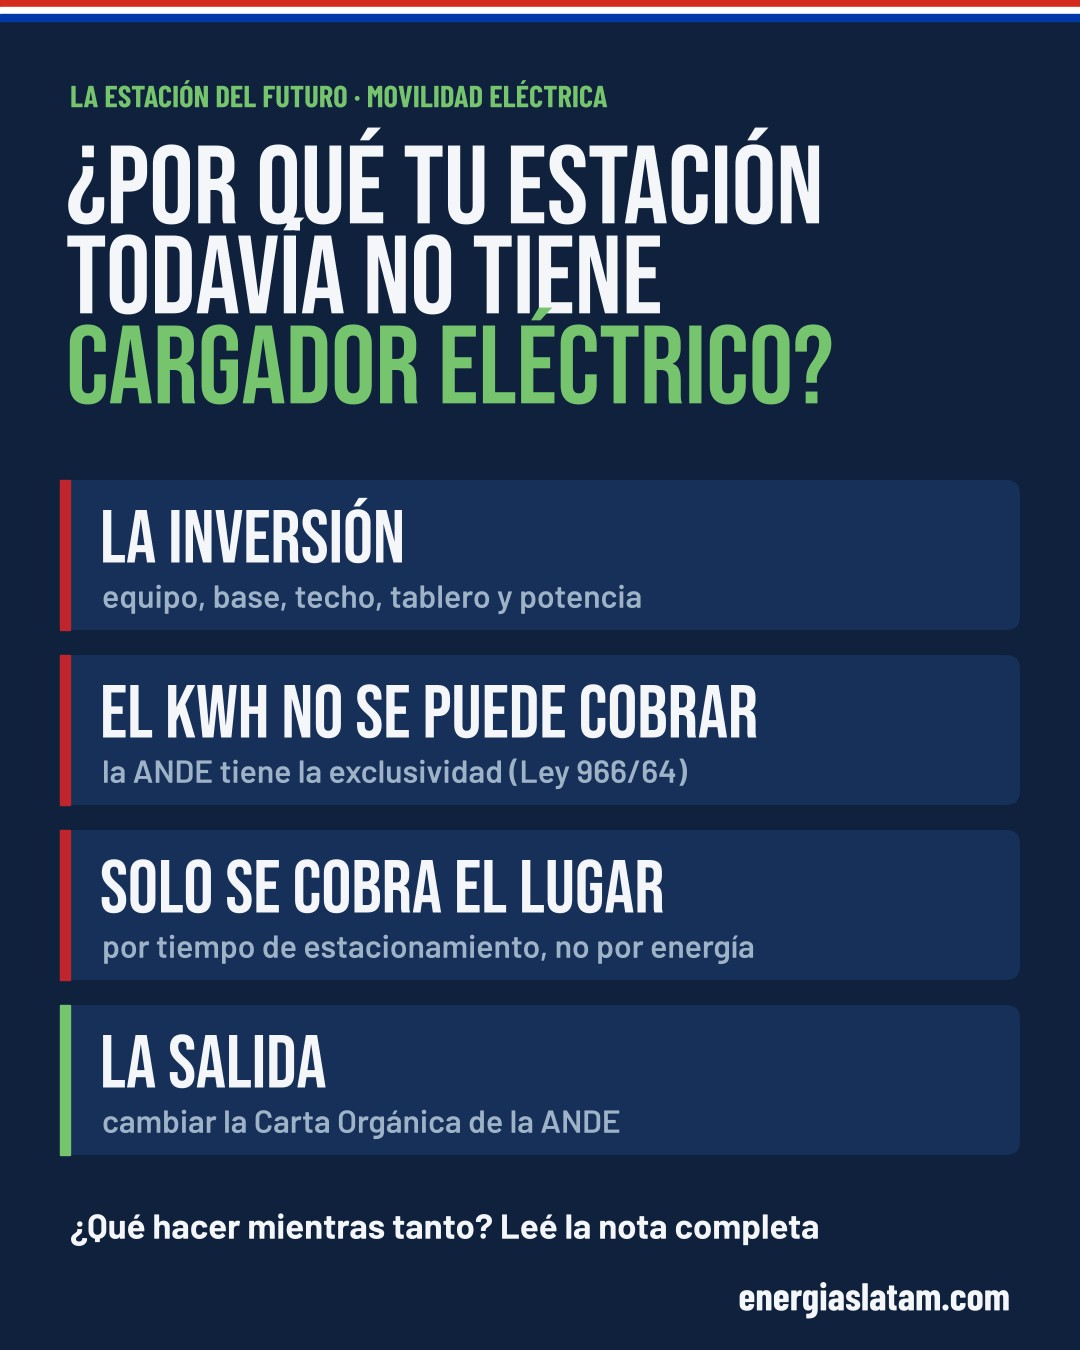
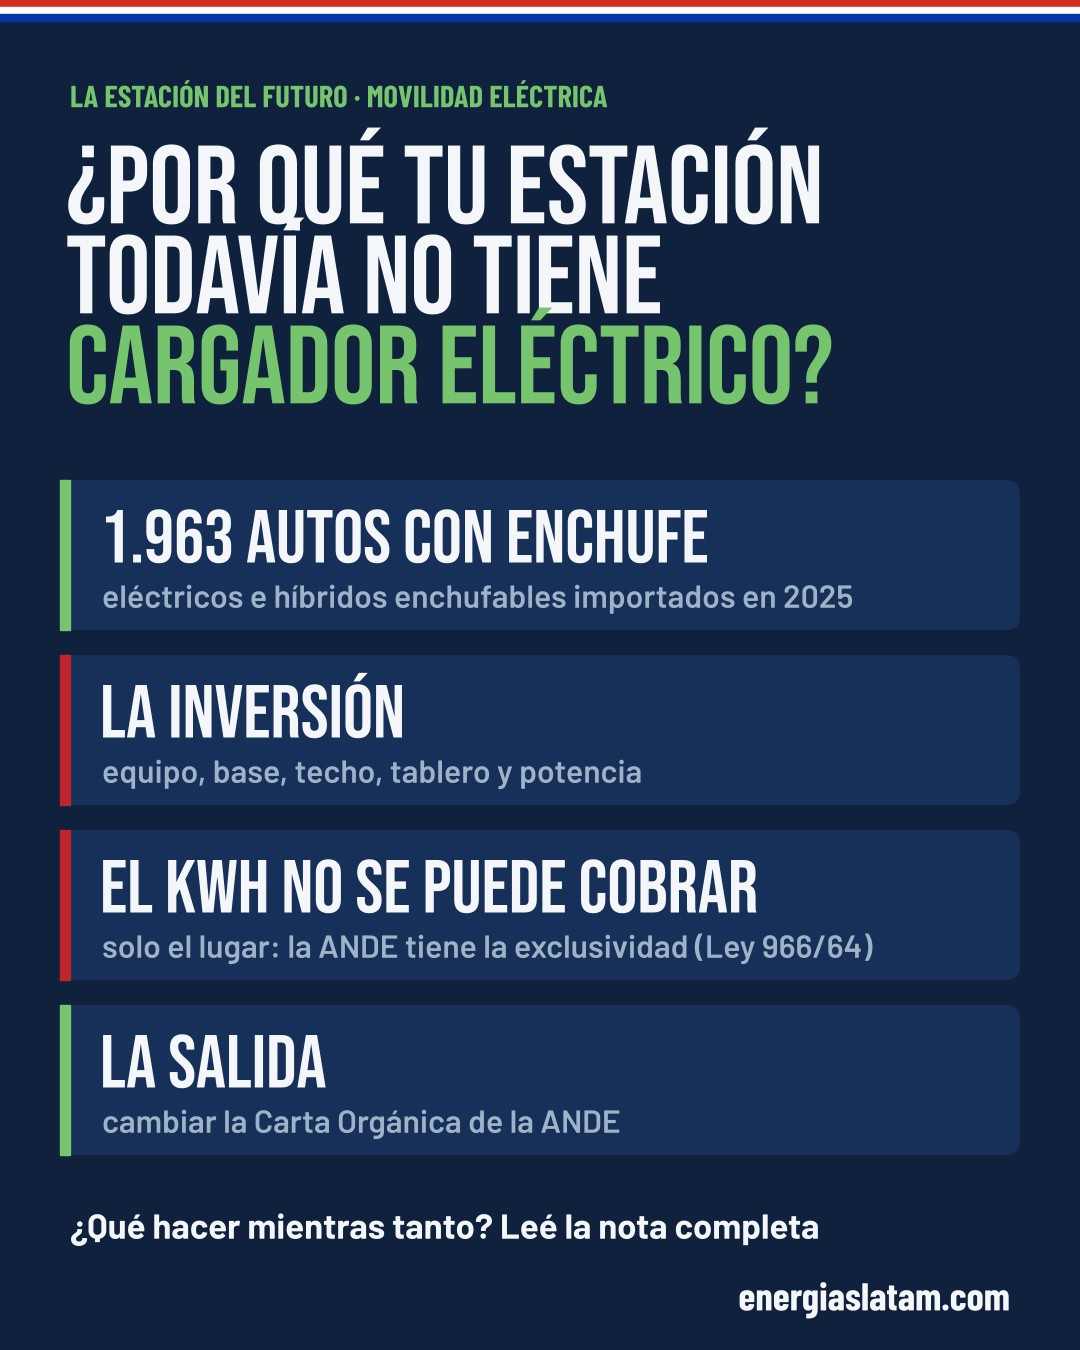
Borrador cargadores: importaciones 2025 y preguntas clave
Claude-Session: https://claude.ai/code/session_01HHGRFrapr8AXyd2C4Baz1m

Changed region(s): [[0.0306, 0.3422, 0.7944, 0.4667], [0.0917, 0.6222, 0.825, 0.7156], [0.0917, 0.4978, 0.7028, 0.5911]]

diff --git a/notas/2026-10-29-cargadores-electricos-estaciones.html b/notas/2026-10-29-cargadores-electricos-estaciones.html
@@ -1,14 +1,27 @@
 <figure><img src="img/2026-10-29-cargadores-electricos-estaciones-1.jpg" alt="Las dos barreras para instalar cargadores eléctricos en una estación de servicio: la inversión inicial y la imposibilidad de cobrar por kWh"><figcaption>Las dos barreras que hoy frenan los cargadores en las estaciones.</figcaption></figure>
-<p>Cada vez se ven más autos eléctricos e híbridos enchufables en las calles de Paraguay, y en las estaciones aparece una pregunta que antes no existía: ¿por qué acá no hay un cargador? La respuesta no tiene que ver con falta de interés de los operadores. Tiene que ver con dos números que todavía no cierran: lo que cuesta instalarlo y lo que se puede cobrar por usarlo.</p>
+<p>Los autos eléctricos ya no son una promesa: los importadores los están trayendo, junto con los híbridos enchufables, y cada vez se ven más en las calles de Paraguay. En las estaciones aparece una pregunta que antes no existía: ¿por qué acá no hay un cargador? La respuesta no tiene que ver con falta de interés de los operadores. Tiene que ver con dos números que todavía no cierran, lo que cuesta instalarlo y lo que se puede cobrar por usarlo, y con varias preguntas que nadie respondió todavía.</p>
+<h2>Los autos ya están llegando</h2>
+<p>En 2025 se importaron 4.049 vehículos híbridos y eléctricos, un 65,7 % más que los 2.443 de 2024, y ya representan el 10,5 % de todas las importaciones de vehículos. Dentro de ese total, los que necesitan enchufe crecieron más rápido: 858 eléctricos puros, un 47,2 % más, y 1.105 híbridos enchufables, casi el triple que el año anterior.</p>
+<p>Son casi 2.000 autos por año que en algún momento van a necesitar cargar fuera de casa, sobre todo en la ruta. Y la estación de servicio es el lugar natural para hacerlo.</p>
+<div class="datos"><div><b>4.049</b><span>híbridos y eléctricos importados en 2025, un 65,7 % más que en 2024</span></div><div><b>1.963</b><span>de ellos se enchufan: 858 eléctricos y 1.105 híbridos enchufables</span></div><div><b>10,5 %</b><span>de todas las importaciones de vehículos de 2025</span></div></div>
 <h2>Una inversión que empieza en el tablero</h2>
 <p>Un cargador no es un equipo que se enchufa a la pared. Al precio del equipo hay que sumarle la base, en muchos casos un techo o cobertura, la canalización y el cableado desde el tablero principal de la estación, las protecciones y, cuando la potencia disponible no alcanza, un aumento de la potencia contratada con la ANDE. A eso se agregan la obra civil, la señalización y los lugares de estacionamiento que dejan de usarse para otra cosa.</p>
 <p>Para un dueño de estación, todo eso es capital que compite con lo que el negocio ya pide todos los días: surtidores, tanques, tienda, imagen del emblema y mantenimiento. Y a diferencia de una isla de combustible, el cargador ocupa el lugar durante mucho más tiempo por cliente.</p>
 <h2>Lo que no se puede cobrar: el kWh</h2>
 <p>La segunda barrera es la que más pesa. La Carta Orgánica de la ANDE, la Ley 966 de 1964, le da a la estatal la exclusividad del abastecimiento público de electricidad, y los contratos de suministro son intransferibles. En la práctica, la estación no puede vender la energía por kWh, como sí vende el combustible por litro.</p>
 <p>Lo único que puede cobrar es el uso del espacio: el tiempo de estacionamiento o el servicio. Eso trae problemas concretos. Un auto que carga lento paga lo mismo por hora que uno que carga rápido, aunque se lleve mucha menos energía. El cliente no tiene una referencia clara de cuánto paga por lo que carga. Y el operador no puede trasladar al precio lo que le cuesta la energía que factura la ANDE.</p>
-<div class="datos"><div><b>1964</b><span>año de la Ley 966, la Carta Orgánica que da a la ANDE la exclusividad del abastecimiento público</span></div><div><b>2 barreras</b><span>la inversión inicial y la imposibilidad de cobrar la energía por kWh</span></div><div><b>Por hora</b><span>la única forma de cobrar hoy: el tiempo de estacionamiento, no la energía</span></div></div>
+<h2>Las preguntas que todavía no tienen respuesta</h2>
+<p>Antes de poner un cargador, cualquier estacionero se encuentra con preguntas que hoy no tienen una respuesta clara y por escrito:</p>
+<ul>
+<li><b>¿Qué habilitación necesita</b> el estacionero para cobrar por la energía entregada?</li>
+<li><b>¿Cómo se aplica la regla de la ANDE</b> sobre el suministro a terceros cuando la energía se entrega a un auto?</li>
+<li><b>¿Quién certifica el medidor</b> del cargador, como se certifica hoy el surtidor?</li>
+<li><b>¿El precio al usuario es libre o está regulado?</b></li>
+<li><b>¿Qué tarifa paga la estación a la ANDE</b> por esa energía y qué potencia necesita contratar?</li>
+</ul>
+<p>Sin esas respuestas, ningún banco financia y ningún operador puede armar un plan de negocios serio.</p>
 <h2>Qué habría que cambiar</h2>
-<p>Para que el cargador sea un negocio y no solo un gasto, hace falta modificar la Carta Orgánica de la ANDE o reglamentar una figura específica: un prestador del servicio de carga que pueda comprar la energía a la ANDE, con una tarifa pensada para esa actividad, y venderla al usuario por kWh. Esa reglamentación debería venir acompañada de reglas técnicas de conexión, medición y seguridad, para que todos los operadores compitan en las mismas condiciones.</p>
+<p>Para que el cargador sea un negocio y no solo un gasto, hace falta modificar la Carta Orgánica de la ANDE o reglamentar una figura específica: un prestador del servicio de carga que pueda comprar la energía a la ANDE, con una tarifa pensada para esa actividad, y venderla al usuario por kWh. Esa reglamentación debería responder las preguntas de arriba y venir acompañada de reglas técnicas de conexión, medición y seguridad, para que todos los operadores compitan en las mismas condiciones.</p>
 <p>Con el kWh habilitado, la cuenta cambia: el operador puede recuperar la inversión con un precio claro y el cliente sabe lo que paga, igual que en el surtidor.</p>
 <h2>Qué significa para la estación de servicio</h2>
-<p>Mientras la regla no cambie, el cargador funciona más como un servicio para atraer clientes que como una línea de ingresos propia: el conductor que carga se queda más tiempo y consume en la tienda o en el café. Quien evalúe instalarlo hoy conviene que pida primero a la ANDE la factibilidad de potencia para su estación, compare carga lenta y rápida según el tiempo de permanencia de sus clientes y haga los números pensando en la tienda, no en la energía. Y que siga de cerca la discusión sobre la Carta Orgánica: el día que se pueda cobrar el kWh, las estaciones que ya tengan la instalación preparada van a llegar primero.</p>
+<p>Mientras la regla no cambie, el cargador funciona más como un servicio para atraer clientes que como una línea de ingresos propia: el conductor que carga se queda más tiempo y consume en la tienda o en el café. Quien evalúe instalarlo hoy conviene que pida primero a la ANDE la factibilidad de potencia para su estación, compare carga lenta y rápida según el tiempo de permanencia de sus clientes y haga los números pensando en la tienda, no en la energía. Y que siga de cerca la discusión sobre la Carta Orgánica: los autos ya están llegando, y el día que se pueda cobrar el kWh, las estaciones que ya tengan la instalación preparada van a llegar primero.</p>
